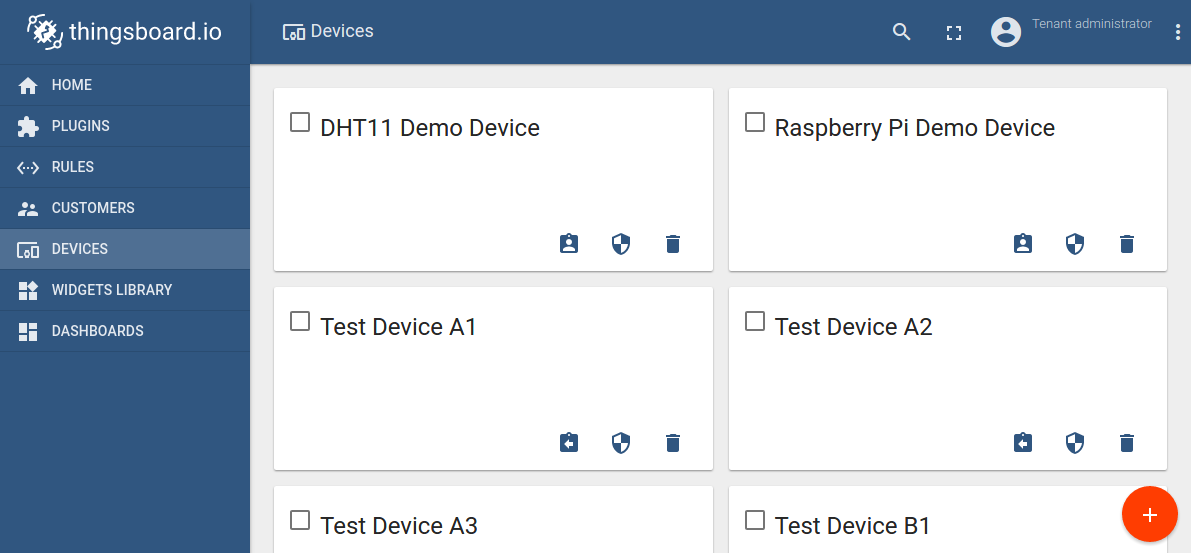
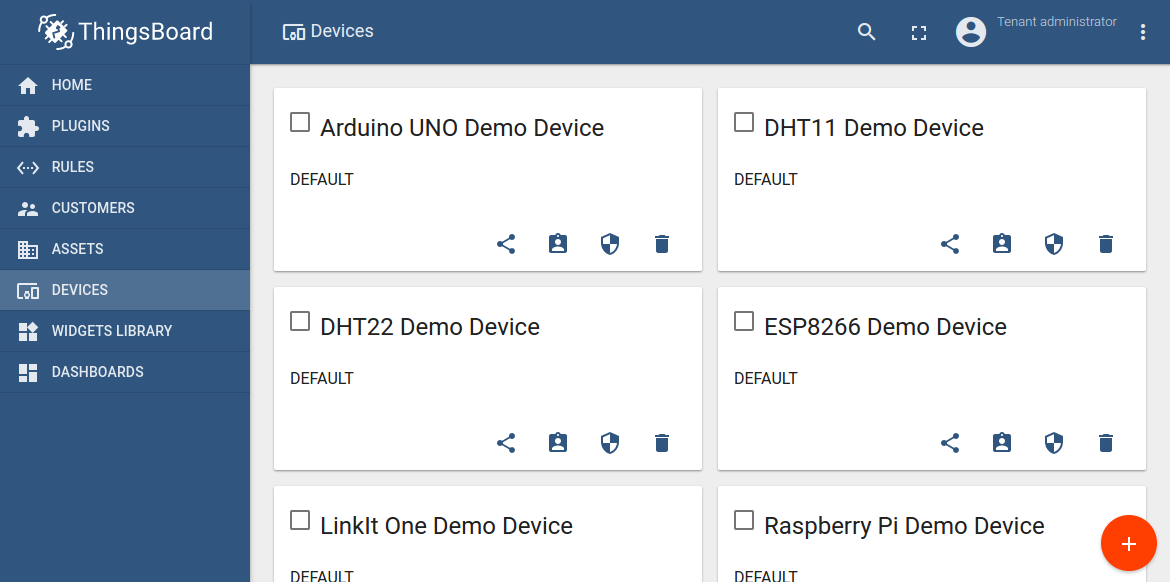
Release 1.3 doc updates

diff --git a/index.html b/index.html
@@ -265,13 +265,23 @@ description: Thingsboard is an open-source IoT platform for device management, d
 
 		<div class="feature-box">
 			<div>
-				<h4><a href="/docs/user-guide/ui/tenants/">Multi-tenancy</a></h4>
-				<p>Support multi-tenant installations out-of-the-box. Single tenant may have multiple tenant administrators and millions of devices and customers.</p>
+				<h4><a href="/docs/user-guide/ui/assets/">Asset Management</a></h4>
+				<p>Provides ability to register and manage <a href="/docs/user-guide/ui/assets/">assets</a>. Allows to provision server-side <a href="/docs/user-guide/attributes/">asset attributes</a>
+					and monitor <a href="docs/user-guide/alarms/">alarms</a>.
 			</div>
 			<div>
 				<h4><a href="https://github.com/thingsboard/thingsboard">100&#37; Open-source</a></h4>
 				<p>Thingsboard is licensed under Apache License 2.0, so you can use any it in your commercial products for free.
 					You can even host it as a SaaS or PaaS solution.</p>
+			</div>
+		</div>
+
+		<div class="feature-box">
+			<div>
+				<h4><a href="/docs/user-guide/ui/tenants/">Multi-tenancy</a></h4>
+				<p>Support multi-tenant installations out-of-the-box. Single tenant may have multiple tenant administrators and millions of devices and customers.</p>
+			</div>
+			<div>
 			</div>
 		</div>
 

diff --git a/docs/user-guide/ui/assets.md b/docs/user-guide/ui/assets.md
@@ -1,0 +1,56 @@
+---
+layout: docwithnav
+assignees:
+- ikulikov
+title: Assets
+description: Thingsboard IoT Asset management
+
+---
+
+Thingsboard support following asset management features using Web UI and [REST API](/docs/reference/rest-api/).
+
+* TOC
+{:toc}
+
+## Add and delete assets
+
+Tenant administrator is able to register new assets or delete them from Thingsboard.
+
+![image](/images/user-guide/ui/assets.png)
+
+## Get Asset Id
+  
+Tenant administrator and customer users are able to copy asset id to clipboard using "Copy Asset Id" button.
+
+ ![image](/images/user-guide/ui/asset-id.png)
+
+## Assign assets to customers
+
+Tenant administrator is able to assign assets to certain [customer](/docs/user-guide/ui/customers/).
+This will allow Customer users to fetch asset data using REST APIs or Web UI.
+ 
+ ![image](/images/user-guide/ui/assign-asset-to-customer.png)
+
+## Manage asset attributes
+
+Tenant administrator and customer users are able to manage asset server-side [attributes](/docs/user-guide/attributes).
+
+ ![image](/images/user-guide/ui/asset-attributes.png)
+
+## Browse asset alarms
+
+Tenant administrator and customer users are able to browse asset [alarms](/docs/user-guide/alarms).
+
+ ![image](/images/user-guide/ui/asset-alarms.png)
+ 
+## Browse asset events
+  
+Tenant administrator and customer users are able to browse events related to particular asset using "Events" tab.
+Lifecycle events and statistics are coming soon.
+
+## Manage asset relations
+ 
+Tenant administrator and customer users are able to manage asset [relations](/docs/user-guide/entities-and-relations).
+
+ ![image](/images/user-guide/ui/asset-relations.png)
+ 

diff --git a/docs/user-guide/ui/devices.md b/docs/user-guide/ui/devices.md
@@ -34,7 +34,7 @@ Tenant administrator and customer users are able to copy device id to clipboard 
 ## Assign devices to customers
 
 Tenant administrator is able to assign devices to certain [customer](/docs/user-guide/ui/customers/).
-This will allow Customer users to fetch device data using REST APIs or web ui.
+This will allow Customer users to fetch device data using REST APIs or Web UI.
  
  ![image](/images/user-guide/ui/assign-device-to-customer.png)
 
@@ -50,7 +50,20 @@ Tenant administrator and customer users are able to browse device [telemetry dat
 
  ![image](/images/user-guide/ui/device-telemetry.png)
 
+## Browse device alarms
+
+Tenant administrator and customer users are able to browse device [alarms](/docs/user-guide/alarms).
+
+ ![image](/images/user-guide/ui/device-alarms.png)
+ 
 ## Browse device events
   
-Tenant administrator and customer users are able to browse alarms related to particular device using "Events" tab.
+Tenant administrator and customer users are able to browse events related to particular device using "Events" tab.
 Lifecycle events and statistics are coming soon.
+
+## Manage device relations
+ 
+Tenant administrator and customer users are able to manage device [relations](/docs/user-guide/entities-and-relations).
+
+ ![image](/images/user-guide/ui/device-relations.png)
+ 
